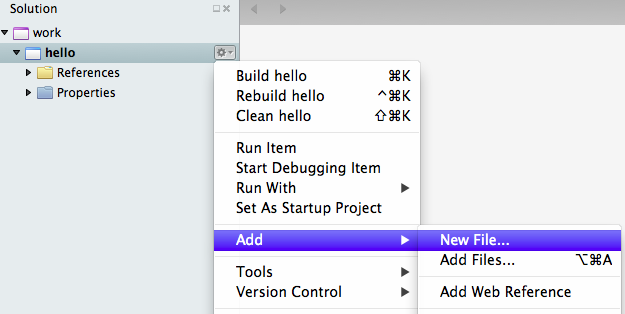
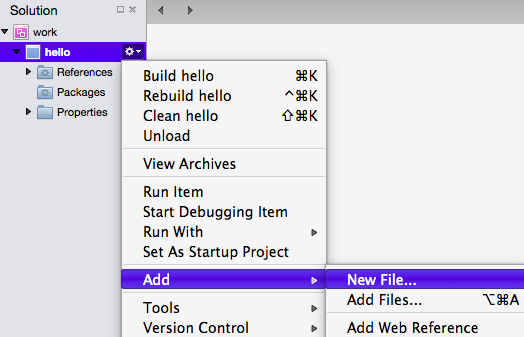
redid edit lab for Xamarin 4.0 - will adjust sizes next

Changed region(s): [[0.0, 0.0, 1.0, 1.0], [0.2137, 0.0, 1.0, 0.086]]

diff --git a/rst/lab-edit-compile-run.rst b/rst/lab-edit-compile-run.rst
@@ -42,7 +42,7 @@ machine, make sure you have Mono and Xamarin Studio installed as in
 
 Other tools are available, like
 the development environment 
-Visual Studio (from Microsoft, only for Windows).
+Visual Studio (from Microsoft, focused on Windows).
 
 Understanding the lower level tools that accomplish each step is important, 
 but we defer
@@ -56,8 +56,7 @@ that you can use to do all of
 the remaining homework assignments and labs for this course. 
 
 
-.. index: Xamarin Studio; solution
-   Xamarin Studio; project
+.. index: Xamarin Studio; solution and project
    
 .. _steps:
 
@@ -84,50 +83,91 @@ a Mac.  Windows versions should be similar.
 
 #.  You get a Welcome screen.  Toward the upper left corner is a link for 
     New Solution.  Click on it.  Alternately you can follow the path through the menus:
-    File -> New -> Solution.  
-   
+    File -> New -> Solution... 
+  
     ..  image:: images/lab-edit/newSolution.png
-     	:alt: Xamarin Studio Start Image
-     	:align: center
+        :alt: Xamarin Studio Welcome Image
+        :align: center
         :width: 227.25 pt
+ 
+    You should get a popup New Project Window, with a banner.
+    "Choose a template for your new project".  It may initially show the
+    wrong template choice, like in the left column shown here:
 
-#. You get a dialog window to fill out.  Follow the order below.  
-   Later parts may not be visible until you do the previous parts:
 
-   - Select C# in left hand side panel
-   - Select Console Project in the middle panel
-   - In the bottom field, "Solution name" (*not* the top Name field),
+    ..  image:: images/lab-edit/newProjectTemplateApp.png
+        :alt: Xamarin Studio Project Template Image - App
+        :align: center
+        :width: 227.25 pt
+   
+    Make sure the template selection gets set to .NET (under Other) as in:
+
+    ..  image:: images/lab-edit/newProjectTemplateNet.png
+        :alt: Xamarin Studio Project Template Image - .NET
+        :align: center
+        :width: 550 pt
+
+   The center part of the screen then shows further choices appropriate to
+   a .NET project.  Make sure **Console Project** is selected, and the language
+   shown in the highlighted line should be set to C#.
+
+   Then click Next.
+
+#. The banner on the next form is "Configure your new project". The
+   image shows the initial state for the author:
+
+   .. image:: images/lab-edit/configureProjectForm.png
+      :alt: Xamarin Studio Dialog Image
+      :align: center
+      :width: 489.3 pt
+
+   Follow the order below to modify the form.  
+   Later parts may not be visible until you do the previous parts.  The 
+   image shows the final form as filled out by Dr. Harrington.
+
+   .. image:: images/lab-edit/configureCreate.png
+      :alt: Xamarin Studio Dialog Image
+      :align: center
+      :width: 489.3 pt
+
+   - Enter **hello** in the Project Name field, for the name of the project.
+   - If you want to keep all your work together, we suggest that you
+     change the name of the solution from the copied "hello" and
      enter any name you like:  We recommend **work**, which will make
      sense for all your work for the course.
-   - Leave the Location field above it as is or change it if you like.
-   - Above that, Enter **hello** in the Name field, for the name of the project.
-   - Make sure *Create directory for solution* is checked in the bottom right.
-   - Press the OK button.
-   
-   ..   image:: images/lab-edit/consoleProjectDialog.png
-     	:alt: Xamarin Studio Dialog Image
-     	:align: center
-        :width: 489.3 pt
+   - On *your* computer the Location field should start off showing a 
+     Projects folder under *your* home folder,
+     (not the author's home folder as in the image).  You can leave 
+     it as is or change it if you like.
+   - Make sure *Create a project within the solution directory* is checked 
+     in the box under the Location.
+   - You may skip version control for now, though it is very handy.
+   - After the three fields are filled in, the Create button in the lower right
+     should become active.  After checking your entires, click on Create.
    
    You now have created a solution in Xamarin Studio, with one project
    inside it. Later we can add further *projects* to *this solution*. 
 
 #. Look at the Xamarin Studio window that appears.  It should have two main sub-windows or 
    "Pads" as Xamarin Studio calls them.  A narrow one on the left is the Solution Pad,
-   containing a hierarchical view of the solution.  You should see your solution name
+   containing a hierarchical view of the solution.  If you somehow close a pad,
+   you can recover it going to the main Xamarin menu: View => Pads => Solution.  
+
+   In the Solution Pad you should see your solution name
    at the top and the hello project under that.  
    Folders have a little triangle shown to their 
    left.  You can click on the triangle.  A triangle pointing down 
    means the inside of the folder is displayed.  A triangle pointing to the right
-   means the contents are not being displayed. Listed under hello are References and
+   means the contents are not being displayed. Listed under hello are References,
+   Packages and
    Properties, that we will ignore for now.  Below them is the line for the automatically
    generated sample code file Program.cs.  
    The file should also appear in the Edit Pad to the right.
    
-   ..   image:: images/lab-edit/Program.png
-     	:alt: Xamarin Studio Program.cs Image
-     	:align: center
-        :width: 485.25 pt
+   .. image:: images/lab-edit/Program.png
+      :alt: Xamarin Studio Program.cs Image
+      :align: center
+      :width: 485.25 pt
    
 #. Program.cs should be selected in the Solution Pad, as shown above.  
    Change the selection by clicking on hello. 
@@ -140,10 +180,10 @@ a Mac.  Windows versions should be similar.
 #. Bring up the context menu on the hello project in the Solution Pad.
    Select Run Item.  
 
-   ..   image:: images/lab-edit/runMainMenu.png
-     	:alt: Xamarin Studio Run Program.cs Image
-     	:align: center
-        :width: 389.25 pt
+   .. image:: images/lab-edit/runMainMenu.png
+      :alt: Xamarin Studio Run Program.cs Image
+      :align: center
+      :width: 389.25 pt
    
     
 #.  Here Xamarin Studio combines several steps: saving the file,
@@ -153,28 +193,38 @@ a Mac.  Windows versions should be similar.
     something like
     
     ..  image:: images/lab-edit/pressKey.png
-     	:alt: Xamarin Studio Press Key to close Image
-     	:align: center
+        :alt: Xamarin Studio Press Key to close Image
+        :align: center
         :width: 283.5 pt
    
-    You have a chance to see the output of this simple program.
-    Follow the instructions and press the space or Enter key.
+    Here you see the output of this simple program.
+    On Windows you can follow the instructions and press the space or Enter key.
+
+    .. note::
+       This console window must be closed before you can run a program again.
+       If you go to run a program and the Run Item line is grayed out,
+       look for the unclosed terminal window you still have!
     
-#.  On Windows, that kills the window.  **On a Mac, only, there is one more step:**
+#.  On Microsoft Windows, pressing spacebar or Enter kills the window.  
+    **On a Mac only, this makes the window gets two more lines, but still be visible:**
 
     ..  image:: images/lab-edit/processComplete.png
-     	:alt: Xamarin Studio Process Complete Image
-     	:align: center
+        :alt: Xamarin Studio Process Complete Image
+        :align: center
         :width: 198.75 pt
    
-    You have to actively close the Mac terminal window, either by clicking the
-    red window closing button, or using the keyboard, with Command-W.
+    You have to actively close the Mac terminal window by clicking the
+    red window closing button, or using the keyboard, with Command-W.  You
+    can either do that now, or replace the previous spacebar/Enter 
+    step with this action.    
 
-#.  Initially, for immediate practice running a program, this automatically generated
-    file, ``Program.cs``, is convenient.  Hereafter it is an annoyance.  
-    The file name is always the same, and not useful, 
-    and you would need to redo the whole
-    code for your own program.  A general approach is to *delete* this
+#.  This one time it is convenient to get the immediate practice of running  
+    this automatically generated program
+    file, ``Program.cs``.  Hereafter this file is an annoyance.  
+    The file name and contents are always the same, and not useful. 
+    You would need to redo the whole
+    code for your own program.  A general approach for all your projects
+    is to *delete* this
     file and put in a file of your own:
     
     -   Make sure Program.cs is selected in the Solution Pad.
@@ -189,20 +239,22 @@ a Mac.  Windows versions should be similar.
             :align: center
             :width: 326.25 pt
    
-    -   You get another popup.  When it appears the right button is selected,
-        *but you do not want that selection*, Remove From Project. 
-        The image below shows the proper button, the
-        *left* button*, **Delete**, being chosen.  
+    -   You get another popup, with the *wrong* (rightmost) button selected,
+        Remove From Project.
+        Instead select the *left* button, **Delete**, as in 
+        the image below.  
         Otherwise the file is left in the hello
         folder, but it is just not listed as being in the project.
+        Each project is associated with a folder, but not everything
+        in the folder may be cataloged by Xamarin as part of the project.
       
         ..  image:: images/lab-edit/sureRemove.png
             :alt: Xamarin Studio Delete Program.cs Image
             :align: center   
             :width: 436.5 pt
             
-    -   If you forgot to close the Edit Pad tab containing Program.cs earlier, you can still
-        do it, just say not to save changes to the file when asked. 
+    -   If you forgot to close the Edit Pad tab containing Program.cs earlier, 
+        you can still do it -- just say not to save changes to the file when asked. 
 
 #. To get in code that you want, there are several approaches.  The one we take
    now is to start from a completely
@@ -210,34 +262,41 @@ a Mac.  Windows versions should be similar.
    Select the submenu Add...  and  then New File....  
 
    ..   image:: images/lab-edit/addNewFileMenu.png
-     	:alt: Xamarin Studio Add new file Image
-     	:align: center
+        :alt: Xamarin Studio Add new file Image
+        :align: center
         :width: 468.75 pt
 
-#. In the popup New File Dialog Window, click on Empty File (not Empty *Class*).  
-   Enter the name hello.cs.
-   Click the New button.
+#. In the popup New File Dialog Window, it is likely that the wrong kind of file is 
+   highlighted (likely Empty Class). 
    
    ..   image:: images/lab-edit/makeEmptyFileDialog.png
-     	:alt: Xamarin Studio Add empty file Image
-     	:align: center
+        :alt: Xamarin Studio Add empty file Image
+        :align: center
         :width: 427.5 pt
+
+   Click on **Empty File** instead.  
+   Change the Name field from EmptyCSharpFile to hello.cs.  
+   Always remember the ".cs".
+   Click the New button.
    
 #. This should add hello.cs to the hello project and open an editing window for hello.cs.
-   The file should have no text.
+   The file should have no text.  
    
    ..   image:: images/lab-edit/editEmptyHello.png
-     	:alt: Xamarin Studio edit empty file Image
-     	:align: center
-        :width: 272.25 pt
+        :alt: Xamarin Studio edit empty file Image
+        :align: center
+        :width: 272.25 pt 
    
-   
+   If it does have text, delete this file, too, and
+   go back to the previous step and be sure to select **Empty File**, not Empty Class.
+
    Much like in most word processors type in (or paste) 
    the following code.  This is actually an equivalent
    *Hello, World!* program to the automatically generated one,
    but it is a bit shorter.  
    It only introduces the syntax we actually *need* at the beginning,
-   and will be discussing more shortly:
+   and will be discussing more shortly.  The automatically generate line numbers
+   are not a part of the text:
     
    ..  literalinclude:: ../source/examples/hello/hello.cs
        :language: csharp
@@ -245,19 +304,23 @@ a Mac.  Windows versions should be similar.
    
    This program is deliberately simple, so you can type it into the text
    editor quickly and become familiar with how
-   to create, edit, and save a program. 
+   to create, edit, and save a program.  Here is how it looks pasted or typed
+   into the editor pad:
             
    ..   image:: images/lab-edit/pasteHello.png
-     	:alt: Xamarin Studio Edited new file Image
-     	:align: center
+        :alt: Xamarin Studio Edited new file Image
+        :align: center
         :width: 274.5 pt
    
 #.  You can run the project just as before.  You should ge the same result, unless
-    you made a typing error.  In that case look, fix it, and try again.
+    you made a typing error.  In that case look for what does not match, 
+    fix it, and try again.  Remember to close the
+    execution Console Window.
     
 #.  Now try a bit of editing:  Look at the program to see where output came
-    from.  Change what is printed and run it, but don't eliminate the console
-    window (so you can show it off).
+    from.  Change what is printed and run it, but don't eliminate the 
+    output console
+    window for now (so you can show it off).  
 
 #.  Now grab the instructor or teaching assistant so
     they can perform a quick inspection of your work and check it off
@@ -276,6 +339,8 @@ For further reinforcement
 ~~~~~~~~~~~~~~~~~~~~~~~~~
 
 #. Can you make a new program variant print out two *separate* lines?
+   This is possible with an added statement.  It is also possible 
+   changing one statement, but not adding an additional statement.
    
 #. Download and install Mono Software Development Kit and Xamarin Studio on
    your home computer or laptop.  
@@ -283,8 +348,9 @@ For further reinforcement
 #. You can now add further projects to your *current* solution.  
    To add a new project in your solution, in the Solution Pad open the context
    sensitive menu for the whole solution (top line), select Add,
-   and in the submenu select New project.
+   and in the submenu select New project, and you go to the Project Template form.
+   It should remember your last settings, but do check:  Later we will
+   sometimes want a Library instead of a Console project.
    
-   You see a window much like when creating a solution, except there is no
-   line for a solution name.  Complete the remaining parts in the same
-   way, giving a new name for the project.
+   Complete the remaining parts in the same
+   way as before, giving a new name for the project.

diff --git a/rst/whilestatements.rst b/rst/whilestatements.rst
@@ -250,8 +250,10 @@ There are many different (and more exciting) patterns of change coming
 for loops, 
 but the simple examples so far get us started.
 
-.. index:: while; rubric for planning
-   loop; rubric for planning
+.. index:: while; planning rubric
+   loop; planning rubric
+   rubric; planning a loop
+   planning; loop rubric
 
 .. _loop-rubric:
 
@@ -259,7 +261,8 @@ but the simple examples so far get us started.
    
 Looking ahead to more complicated and interesting problems,
 here is a more complete list of questions to ask yourself when
-designing a function with a ``while`` loop:
+designing a function with a ``while`` loop (and most will apply to 
+later forms of loops, too):
 
 -  What data is involved? Make sure you give good variable names.
 -  What needs to be initialized and how? This certainly includes any

diff --git a/rst/sampleprogram.rst b/rst/sampleprogram.rst
@@ -55,7 +55,7 @@ explanations! Try to get the gist now and the details later.
 The different colors are used in modern program editors to
 emphasize the different uses of the parts of the program.
     
-We give a line by line explanation:
+We give a line by line explanation: 
 
 .. literalinclude:: ../source/examples/painting/painting.cs
    :lines: 1

diff --git a/rst/index.rst b/rst/index.rst
@@ -11,7 +11,8 @@ Introduction to Computer Science
 
 Available in `PDF <http://books.cs.luc.edu/introcs-csharp/download/comp170.pdf>`_ or `EPUB <http://books.cs.luc.edu/introcs-csharp/download/comp170.epub>`_.
 
-**Table of Contents**
+.. out of place in pdf
+   **Table of Contents**
 
 .. toctree::
    :maxdepth: 2
